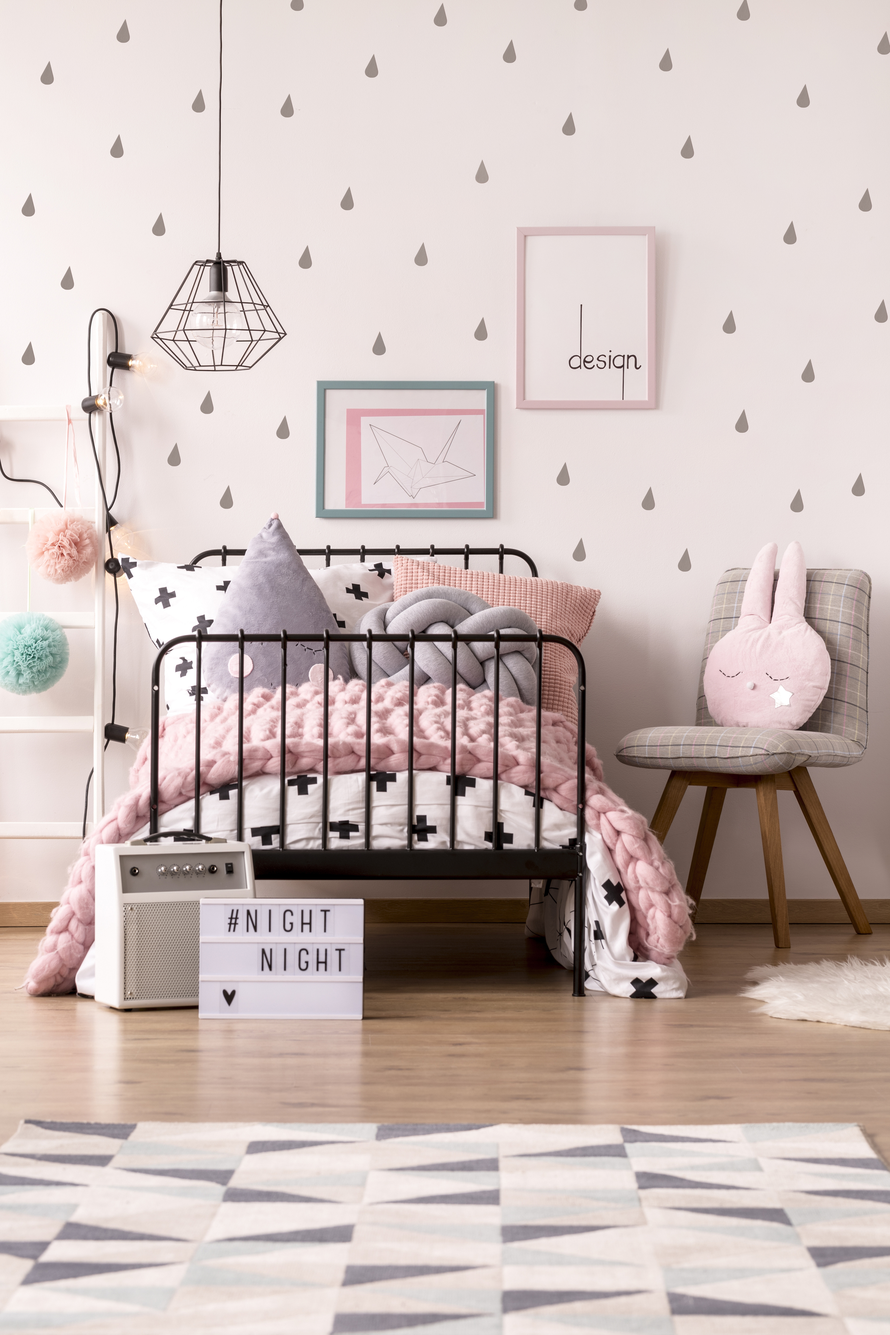
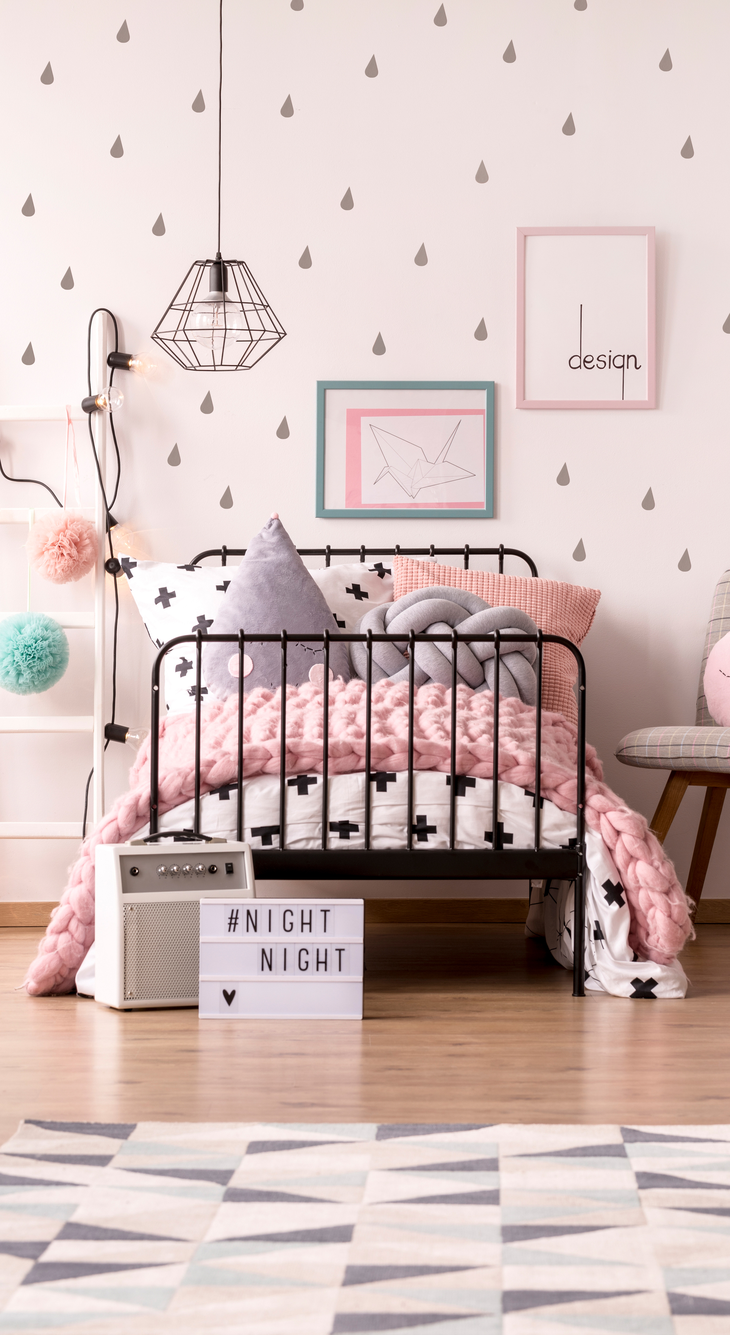
vert imgs formatted, hamburger menu update

diff --git a/src/components/Menu.js b/src/components/Menu.js
@@ -1,5 +1,4 @@
 import React from 'react';
-import PropTypes from 'prop-types';
 import { Link } from 'react-router-dom';
 import { connect } from 'react-redux';
 import { slide as HamburgerMenu } from 'react-burger-menu';
@@ -43,9 +42,5 @@ class hamburgerMenu extends React.Component {
     );
   }
 }
-
-hamburgerMenu.propTypes = {
-  handleSubmit: PropTypes.func.isRequired
-};
 
 export default connect(mapStateToProps)(hamburgerMenu);
